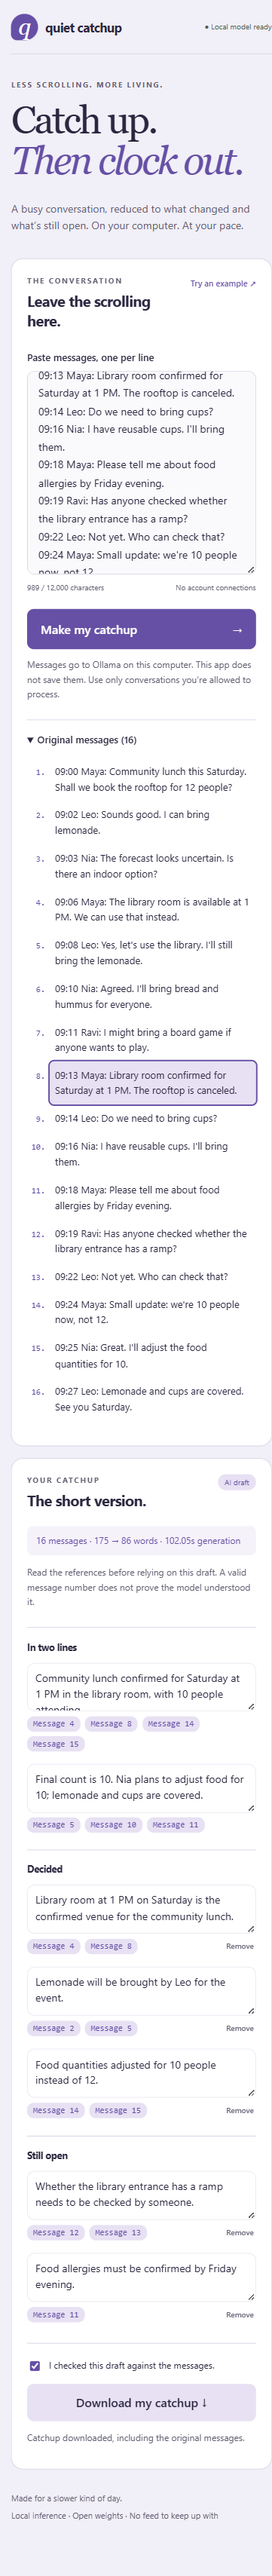
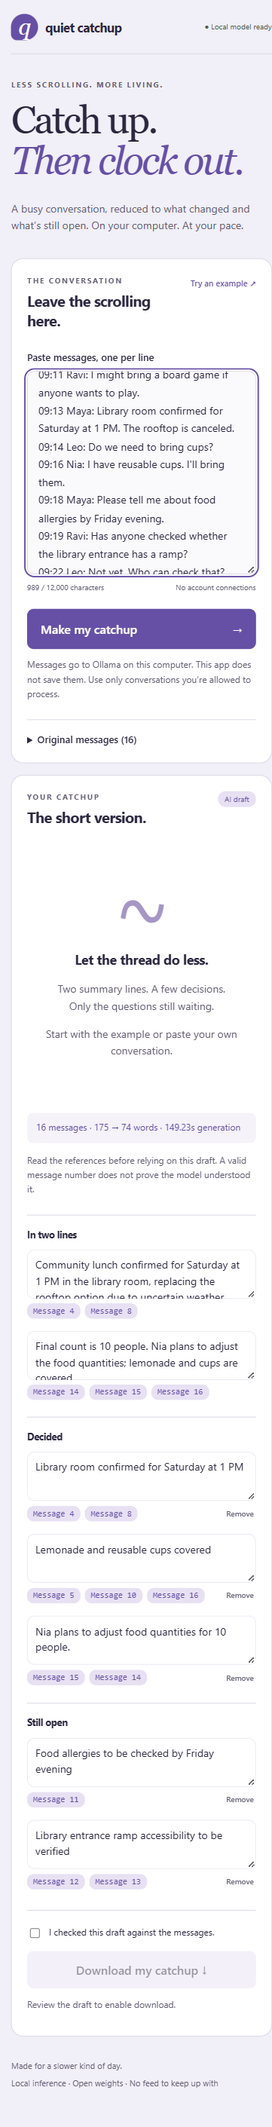
Clarify browser evidence and show reviewed mobile layout

diff --git a/submission/VERIFICATION.md b/submission/VERIFICATION.md
@@ -50,7 +50,9 @@ The final browser run called the real model; no response mock was used.
 - The text download included edits, references, and all original messages.
 - Editing the original conversation hid the old digest and references.
 - Planner and generated-digest views fit a 375 × 812 viewport without
-  horizontal overflow. Screenshots are under `demo/`.
+  horizontal overflow. Screenshots are under `demo/`. The final mobile digest
+  screenshot replays the saved, edited first real reply with review unchecked;
+  it is a layout illustration, not an additional inference run.
 - The initial missing-favicon console error was fixed with an inline favicon;
   the reloaded final page had no reported console errors.
 
